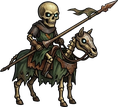
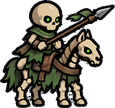
네크로맨서 스켈레톤 6종을 메인 화풍으로 교체 (베타 1.302)
Claude-Session: https://claude.ai/code/session_01EFTEodMUbbTSUTixRFZg7z

diff --git a/docs/asset-prompts.md b/docs/asset-prompts.md
@@ -1643,3 +1643,5 @@ The six skeleton soldiers of the necromancer, all facing right:
 
 Avoid: realistic proportions, tall lean skeleton, realistic anatomy, detailed ribs, long limbs, small head, photo, 3d render, gradients, glow blur, smoke, glossy highlights, painterly texture, thin or white outline, ground line, checkerboard pattern, detailed skull, detailed teeth, cropped or overlapping items, logo, watermark, any text other than the six captions.
 ```
+
+**13-12 진행**: 스켈레톤 6종 받음, 적용됨(베타 1.302). 큰 머리 치비 비율, 눈구멍 초록 점, 네크로맨서와 같은 뼈색·녹슨 갈색·진한 초록 색조, 기병의 말도 뼈 치비 말, 활시위가 두개골을 가로지르지 않고 로고도 없어 첫 시안을 그대로 썼다. `assets/units/skel_cavalry`(115x108)·`skel_spear`(99x91)·`skel_archer`(93x94)·`skel_sword`(71x93)·`skel_blunt`(97x100)·`skel_mage`(87x112), 이전 65~118px과 같은 크기(0.28배), 예전 그림은 `_old`로 보관. 마법사 로브는 보라에서 진한 초록·검정으로 바뀌었다(네크로맨서와 맞춤). **이제 사람·병사 그림은 모두 메인 화풍이다. 남은 것은 각 보스의 이펙트(`assets/fx/boss*_*`, 약 260장)와 네크로맨서 부속 이펙트다.**
